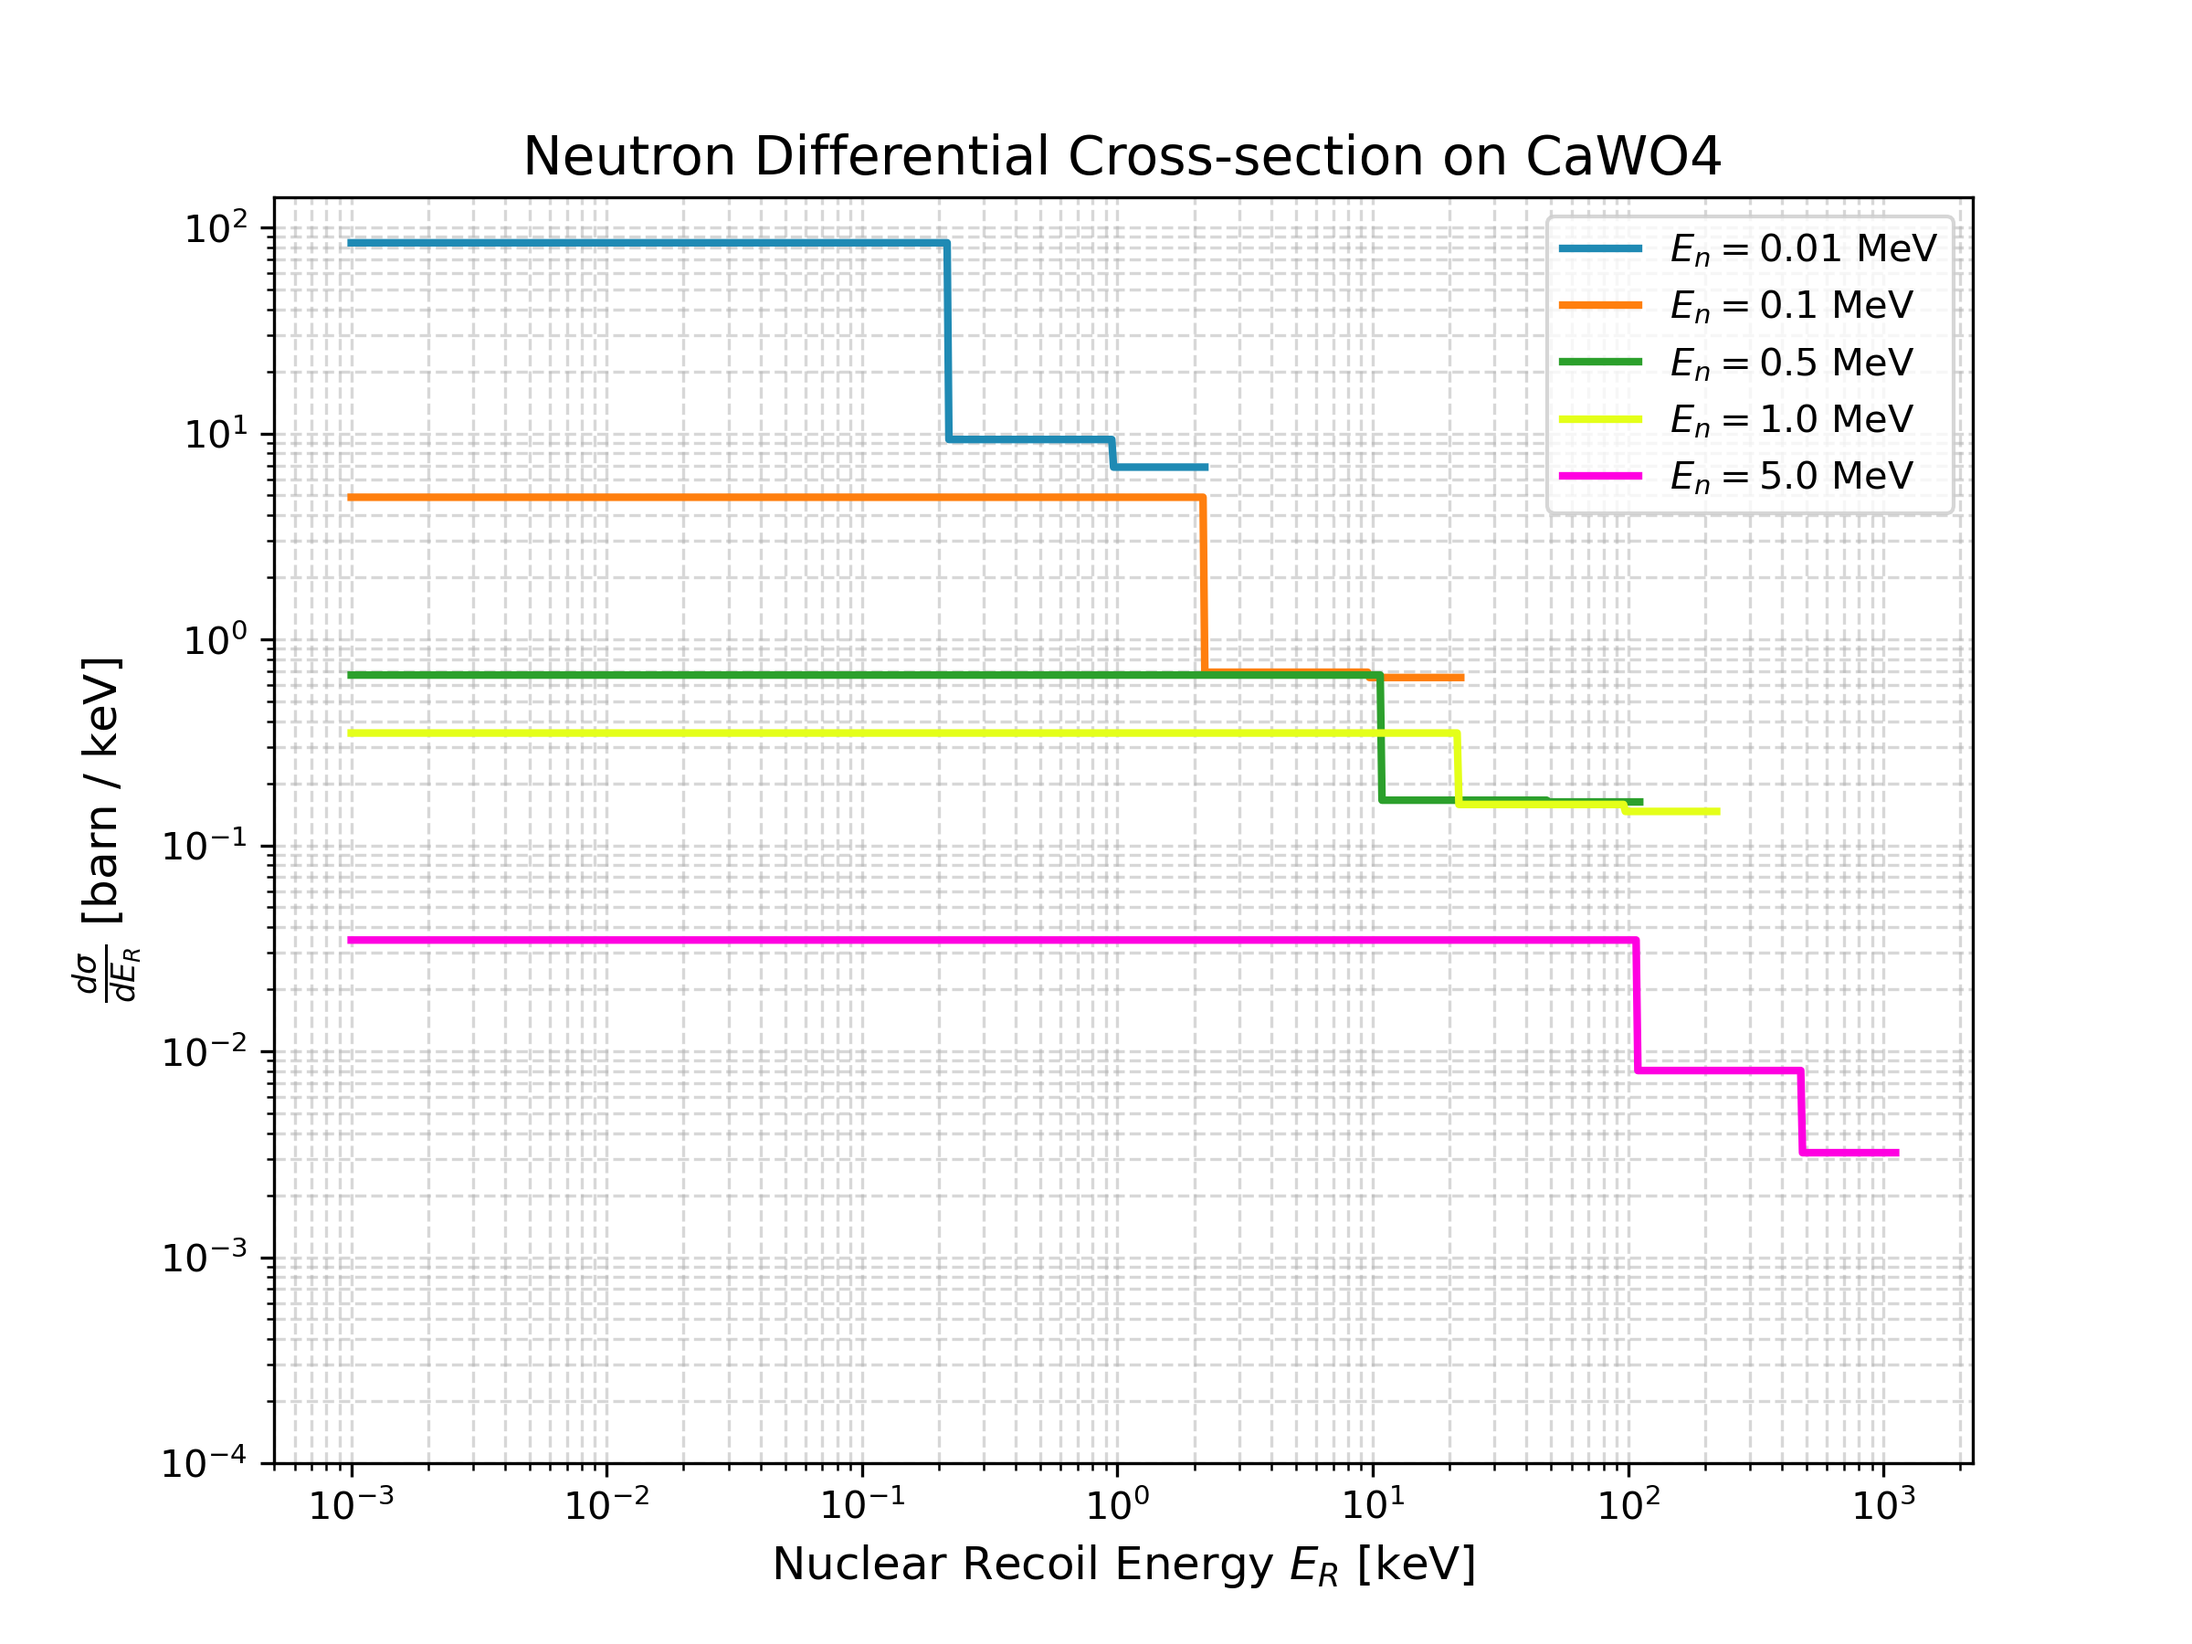
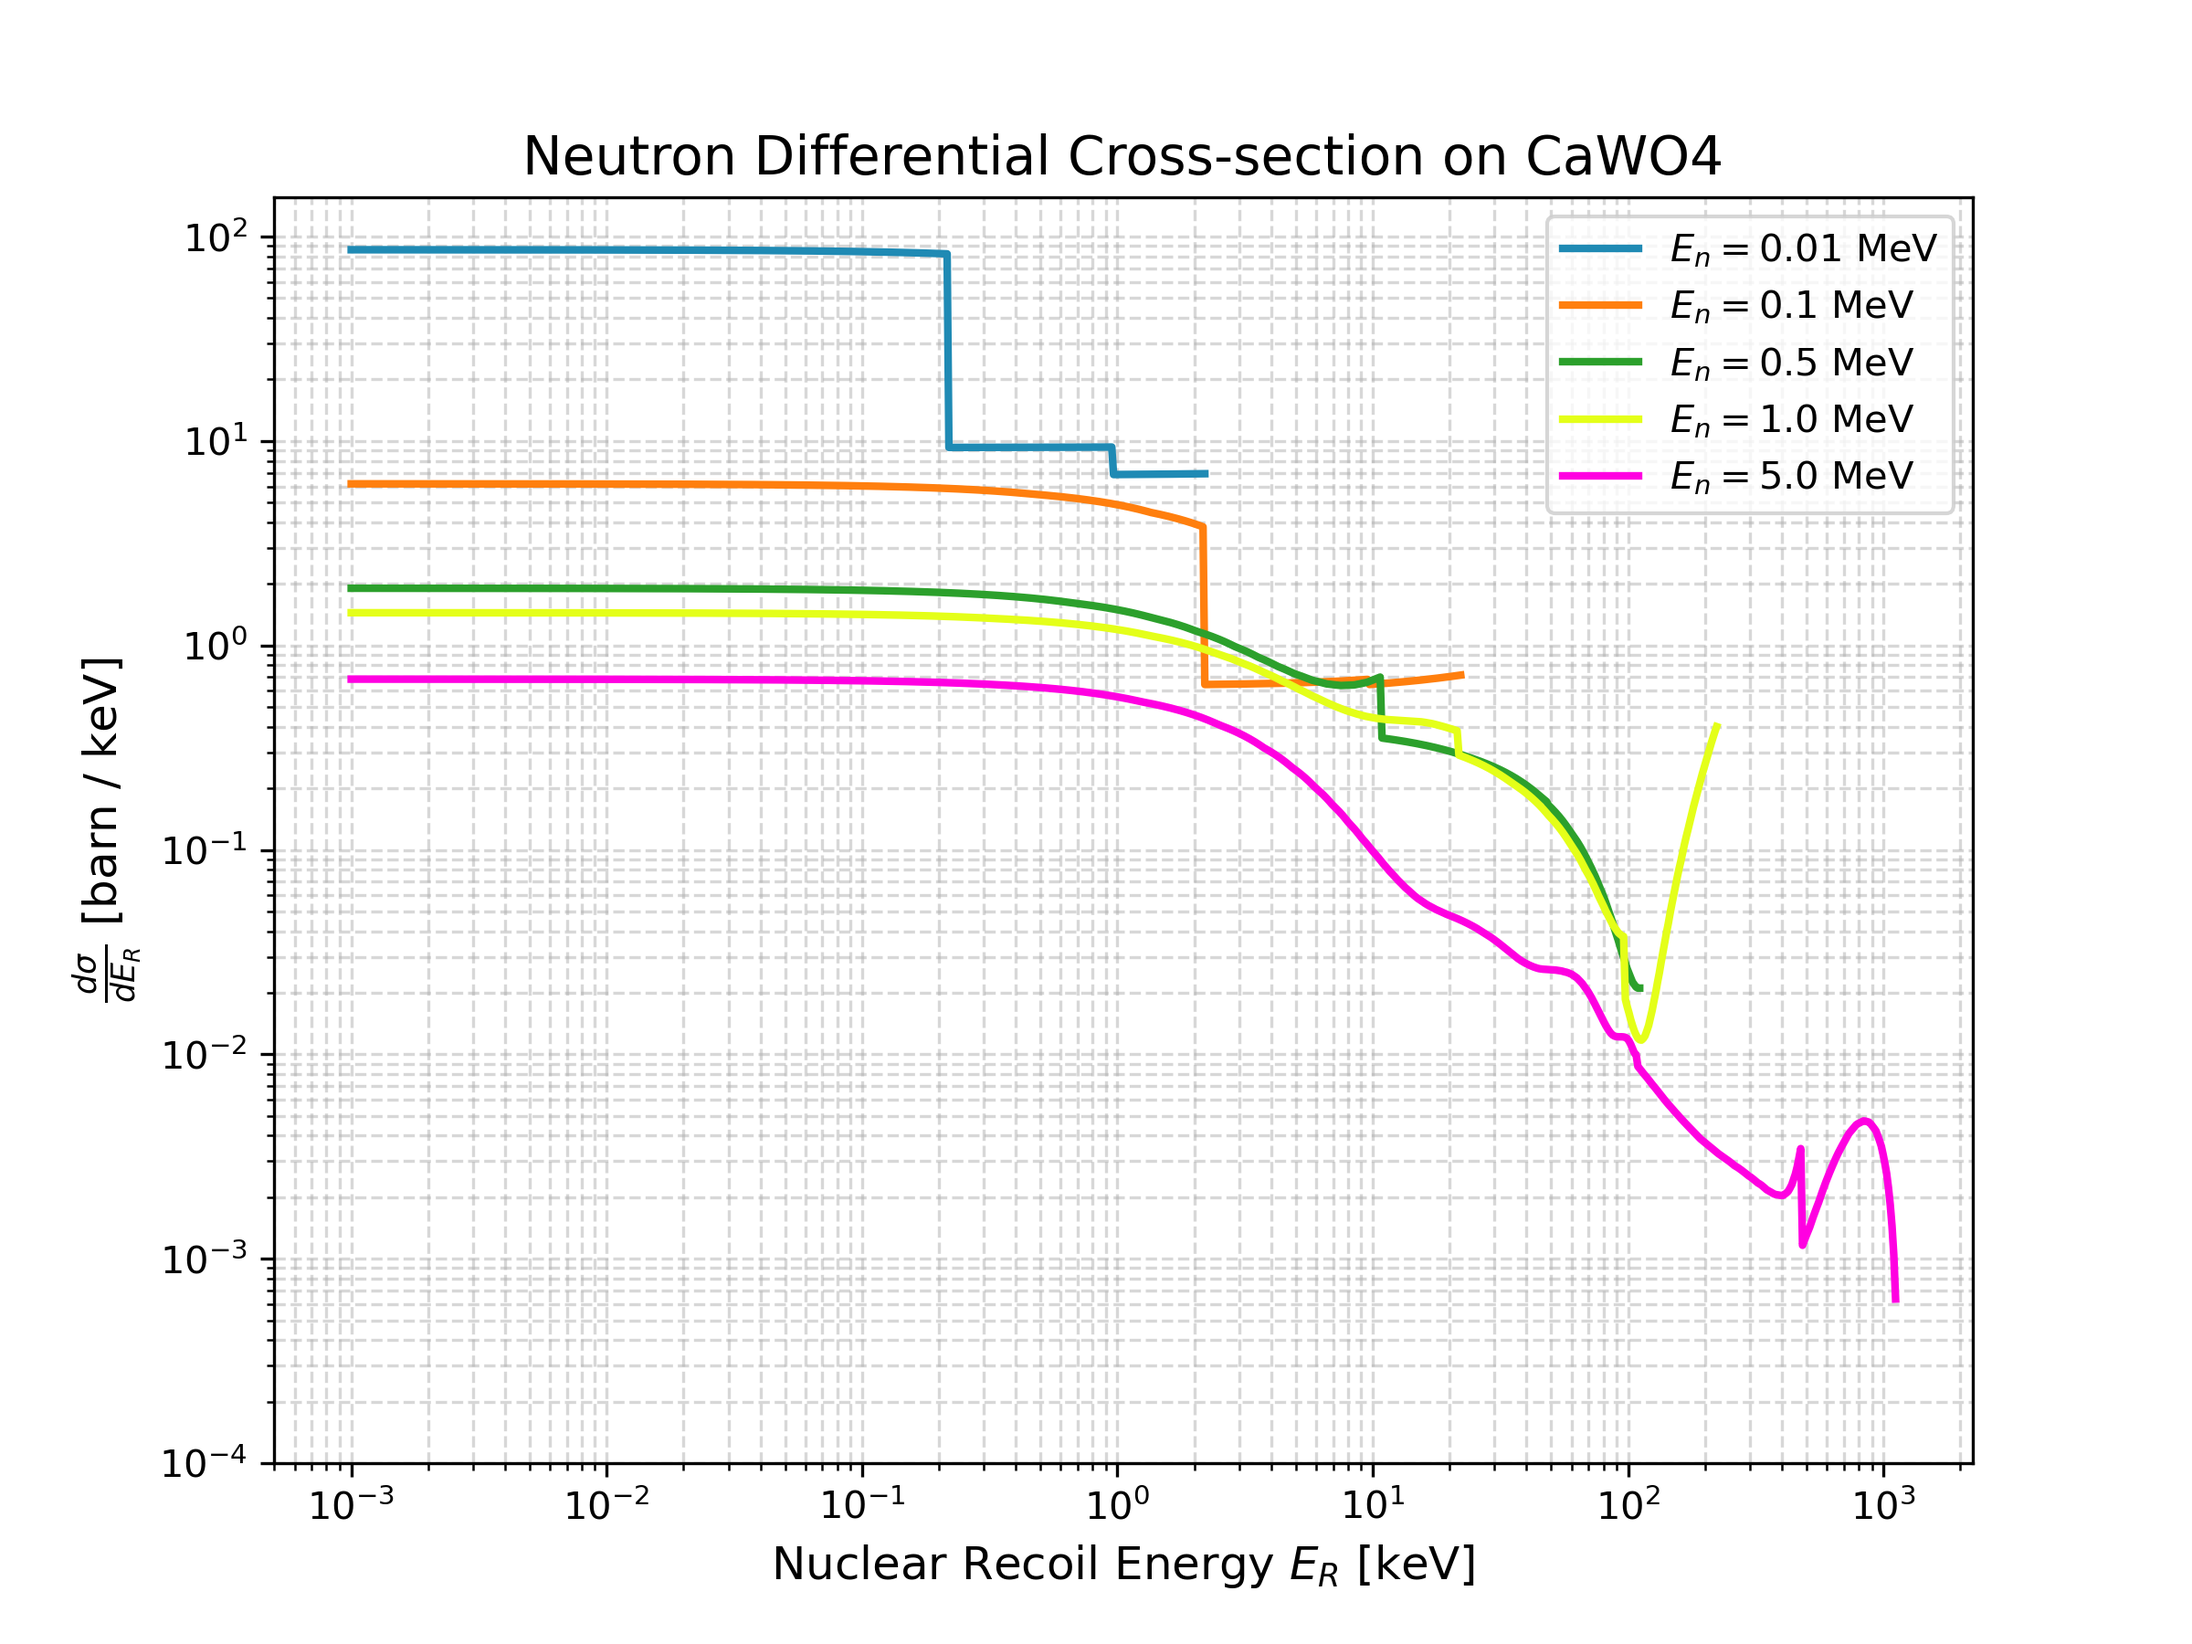
update cross section of n-N : with angular dist

Changed region(s): [[0.0625, 0.2489, 0.9062, 0.8089], [0.125, 0.1244, 0.7188, 0.2178], [0.0938, 0.1244, 0.125, 0.1556]]

diff --git a/calculation of neutron nuclei cross section/figures_xsec/calc.py b/calculation of neutron nuclei cross section/figures_xsec/calc.py
@@ -1,0 +1,168 @@
+# conda activate mkid_sim
+import numpy as np
+import matplotlib.pyplot as plt
+import openmc.data
+import xraylib
+import os
+
+if "OPENMC_CROSS_SECTIONS" not in os.environ:
+    # os.environ['OPENMC_CROSS_SECTIONS'] = '/home/zzz/mkid_sim/cross_sections.xml'
+    print("Warning: OPENMC_CROSS_SECTIONS not set. Script might fail.")
+
+class DiffCrossSectionCalculator:
+    def __init__(self):
+        self.cache = {}
+        self.library = openmc.data.DataLibrary.from_xml()
+
+    def _load_isotope(self, element):
+        iso_name = element
+        if not iso_name:
+            raise ValueError(f"No isotope mapping found for element {element}")
+
+        if iso_name in self.cache:
+            return self.cache[iso_name]
+        
+        try:
+            path = [x['path'] for x in self.library.libraries if x['materials'][0] == iso_name][0]
+            data = openmc.data.IncidentNeutron.from_hdf5(path)
+            self.cache[iso_name] = data
+            print(f"Loaded data for {element} ({iso_name})")
+            return data
+        except IndexError:
+            raise FileNotFoundError(f"Data for {iso_name} not found in cross_sections.xml")
+
+    def get_angular_pdf(self, element, E_n_eV, mu_val):
+        """
+        for epsicifc E_n @ mu ratio density:  p(mu)
+        mu = 1 - 2E_R/E_R max
+        """
+        data = self._load_isotope(element)
+        neutron_product = data[2].products[0]
+        # neutron is the first product
+        uncorrelated_dist = neutron_product.distribution[0]
+        angle_container = uncorrelated_dist.angle
+
+        if hasattr(angle_container, "energy"):
+            # TODO change this part to intepotation
+            idx = np.abs(angle_container.energy - E_n_eV).argmin()
+            dist = angle_container.mu[idx]
+
+            if hasattr(dist, "x") and hasattr(dist, "p"):  # Tabular
+                return np.interp(mu_val, dist.x, dist.p)
+
+            elif hasattr(dist, "coefficients"):  # Legendre
+                # p(mu) = 0.5 + sum( (2l+1)/2 * al * Pl(mu) )
+                coeffs = dist.coefficients
+                val = 0.5  # l=0  (0.5 * 1.0)
+                for l, a_l in enumerate(coeffs):
+                    # openmc from l=1 
+                    P_l = np.polynomial.legendre.Legendre.basis(l + 1)(mu_val)
+                    val += (2 * (l + 1) + 1) / 2 * a_l * P_l
+                return val
+
+            elif isinstance(dist, openmc.data.angle_distribution.Uniform):
+                return 0.5
+
+        return 0.5  # Uniform as default
+
+    def calculate_compound_diff_sigma(self, compound_dict, En_MeV_list, Er_keV_array):
+        """
+        Output: dSigma/dEr [barn/keV]
+        """
+        results = {}
+        Er_eV = Er_keV_array * 1e3  # to eV
+
+        for En_MeV in En_MeV_list:
+            En_eV = En_MeV * 1e6
+            total_ds_dEr = np.zeros_like(Er_eV)
+
+            for element, count in compound_dict.items():
+                data = self._load_isotope(element)
+                A = data.atomic_weight_ratio
+
+                # E_max (eV)
+                r = 4 * A / ((1 + A) ** 2)
+                E_max_eV = r * En_eV
+
+                # total cross section: Noting that 294K is the lowest temperature data in database
+                sigma_elastic = data[2].xs["294K"](En_eV)
+
+                for i, E_rec in enumerate(Er_eV):
+                    if E_rec >= E_max_eV:
+                        continue
+
+                    # E_rec = E_max * (1 - mu) / 2  => mu = 1 - 2*E_rec/E_max
+                    mu = 1.0 - 2.0 * E_rec / E_max_eV
+                    p_mu = self.get_angular_pdf(element, En_eV, mu)
+
+                    # barn/eV -> 1e3 barn/keV
+                    # dSigma/dEr = (Sigma_tot / E_max) * (p(mu) / 0.5)
+                    #            = (Sigma_tot / E_max) * 2 * p(mu)
+                    # when p(mu)=0.5 it becomes Sigma/E_max
+                    val = (sigma_elastic / E_max_eV) * 2 * p_mu * 1e3
+
+                    total_ds_dEr[i] += count * val
+
+            results[En_MeV] = total_ds_dEr
+
+        return results
+
+
+def main():
+    calc = DiffCrossSectionCalculator()
+
+    materials = {
+        "Si": {"Si28": 1},
+        "Ge": {"Ge74": 1},
+        "CaWO4": {"Ca40": 1, "W184": 1, "O16": 4},
+        "Li2MoO4": {"Li7": 2, "Mo98": 1, "O16": 4},
+        "PbWO4": {"Pb208": 1, "W184": 1, "O16": 4},
+    }
+
+    Er_array = np.logspace(-3, 4, 1000)
+    En_list = [0.01, 0.1, 0.5, 1.0, 5.0]
+
+    if not os.path.exists("figures_xsec"):
+        os.makedirs("figures_xsec")
+
+    for mat_name, formula in materials.items():
+        try:
+            print(f"Processing {mat_name}...")
+            results = calc.calculate_compound_diff_sigma(formula, En_list, Er_array)
+            plt.figure(figsize=(8, 6))
+            colors = ["#1f8ab4", "#ff7f0e", "#2ca02c", "#e4ff19", "#ff00e1"]
+
+            for idx, En in enumerate(En_list):
+                y_vals = results[En]
+                mask = y_vals > 0
+
+                plt.plot(
+                    Er_array[mask],
+                    y_vals[mask],
+                    label=f"$E_n = {En}$ MeV",
+                    color=colors[idx],
+                    linewidth=2,
+                )
+
+            plt.xscale("log")
+            plt.yscale("log")
+
+            plt.title(f"Neutron Differential Cross-section on {mat_name}", fontsize=14)
+            plt.xlabel("Nuclear Recoil Energy $E_R$ [keV]", fontsize=12)
+            plt.ylabel(r"$\frac{d\sigma}{dE_R}$ [barn / keV]", fontsize=12)
+
+            plt.grid(True, which="both", ls="--", alpha=0.5)
+            plt.legend(fontsize=10)
+            plt.ylim(bottom=1e-4)
+
+            filename = f"figures_xsec/xsec_{mat_name}.png"
+            plt.savefig(filename, dpi=300)
+            print(f"Saved {filename}")
+            plt.close()
+
+        except Exception as e:
+            print(f"Skipped {mat_name} due to error: {e}")
+
+
+if __name__ == "__main__":
+    main()
